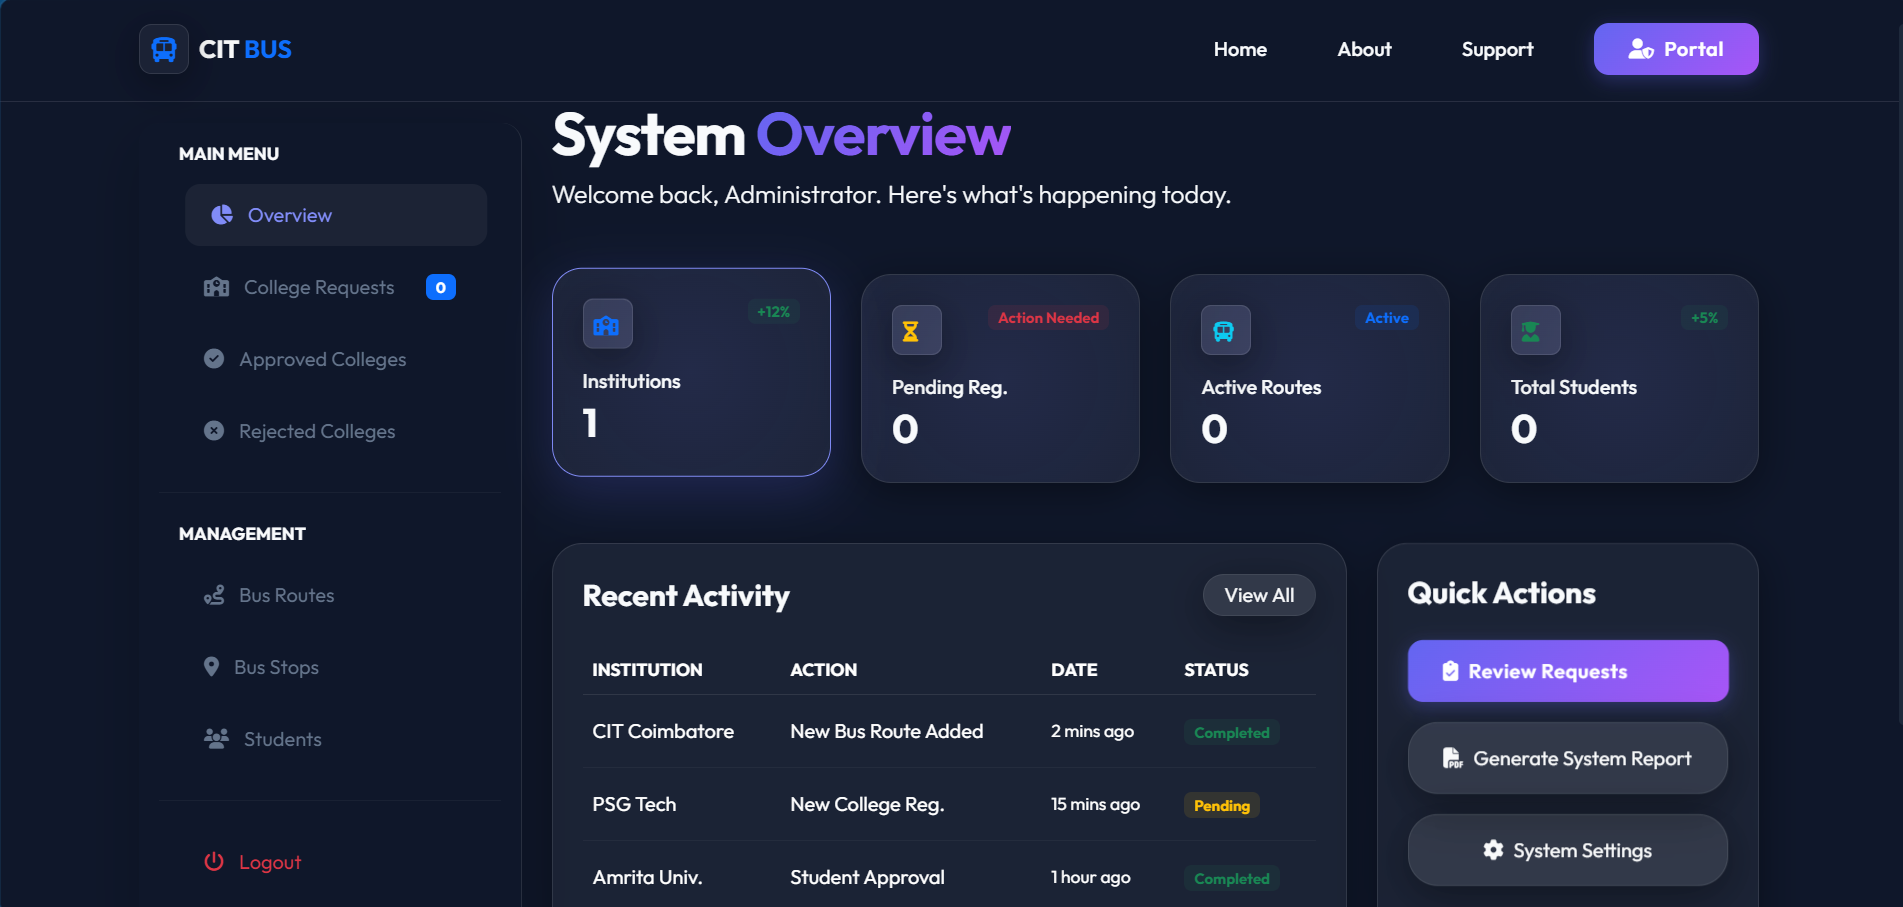
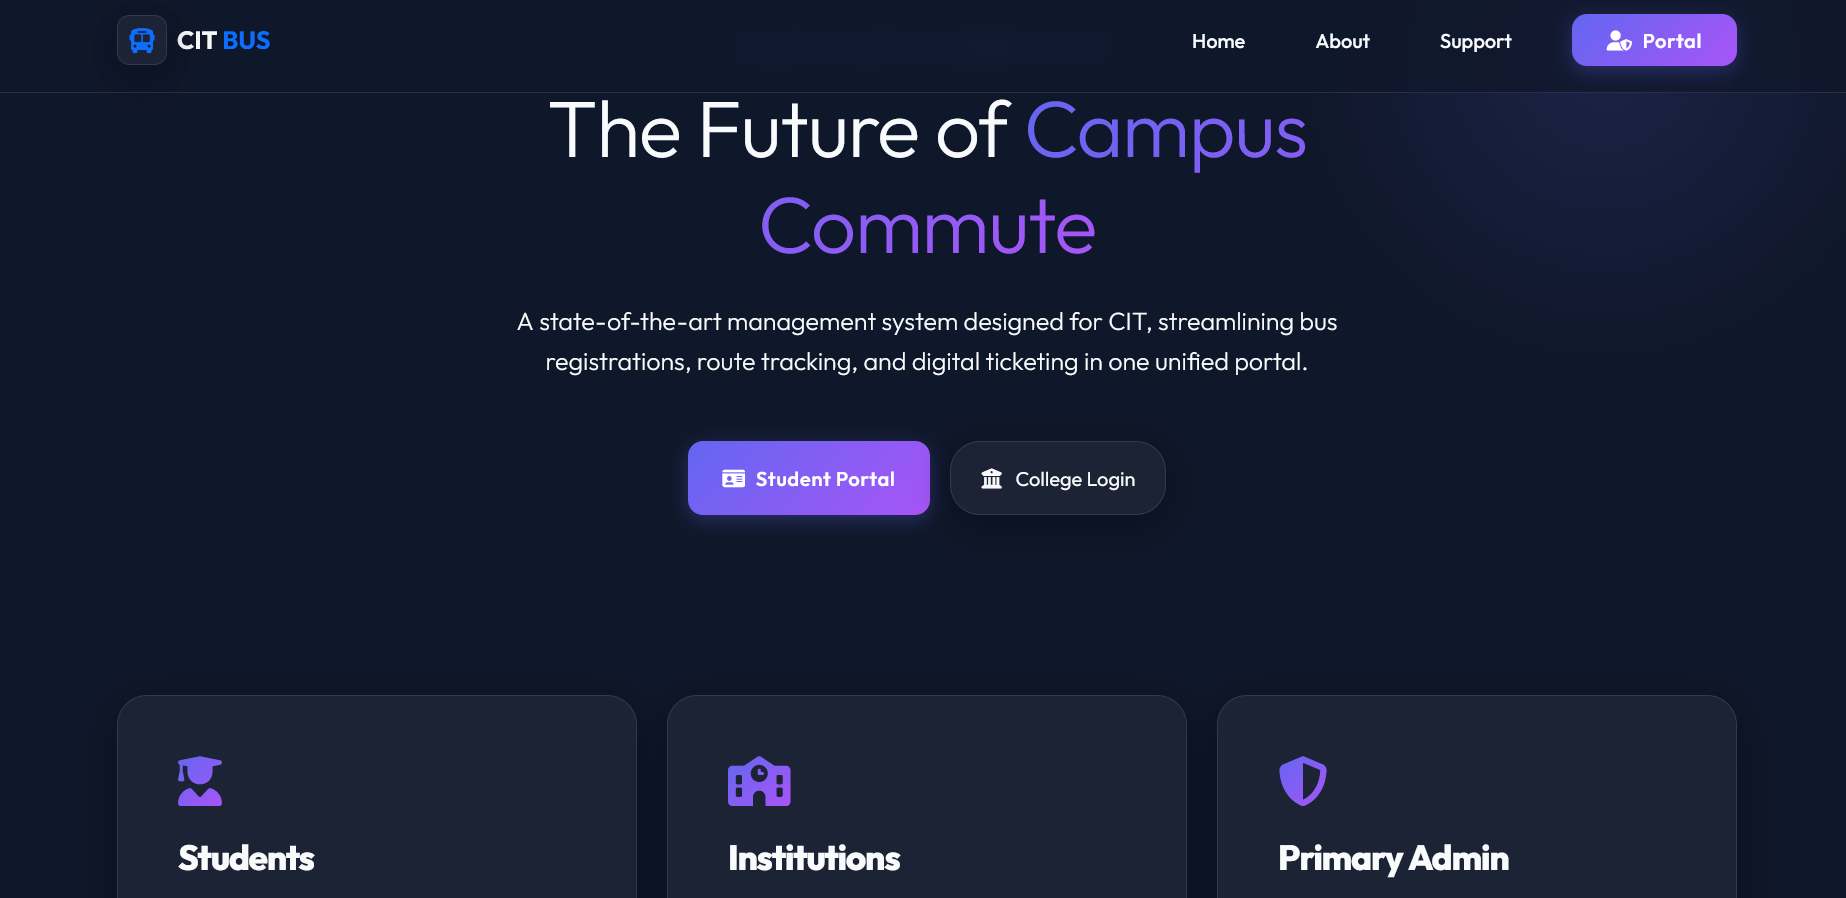
updated 2

diff --git a/src/sections/Projects.jsx b/src/sections/Projects.jsx
@@ -6,7 +6,7 @@ import { FiGithub, FiExternalLink, FiArrowRight, FiX, FiLayers, FiZap } from "re
 import g1 from "../assets/SSRETAILS.png";
 import g2 from "../assets/image2.png";
 import g3 from "../assets/busproj.png";
-import g4 from "../assets/imga.png";
+import g4 from "../assets/image3.png";
 import g5 from "../assets/weatherapp.png";
 
 export const projects = [
@@ -34,7 +34,7 @@ export const projects = [
     fullDescription: "A sophisticated platform for real-time face identification. Integrates deep learning models with a robust backend for instant verification and historical tracking.",
     features: ["Real-time verification", "Demographic analytics", "Attendance logging"],
     stack: ["Python", "TensorFlow", "OpenCV", "Django"],
-    image: g3,
+    image: g4,
     color: "#8B3A1E",
     stats: { Accuracy: "95%", Latency: "<1s" },
   },
